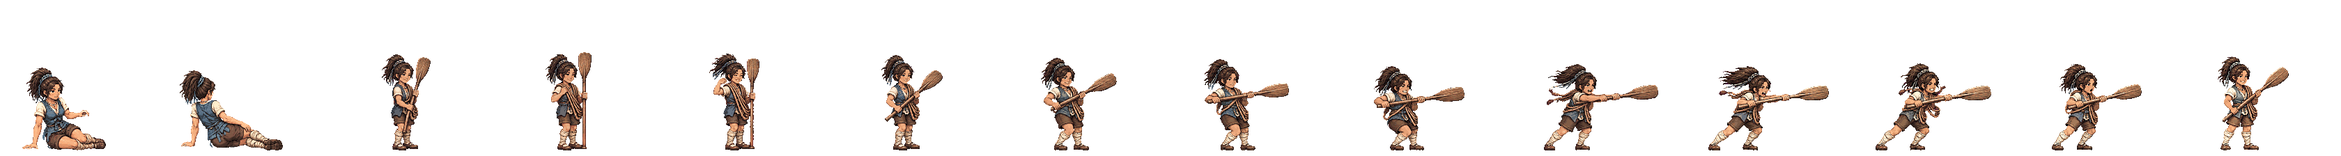
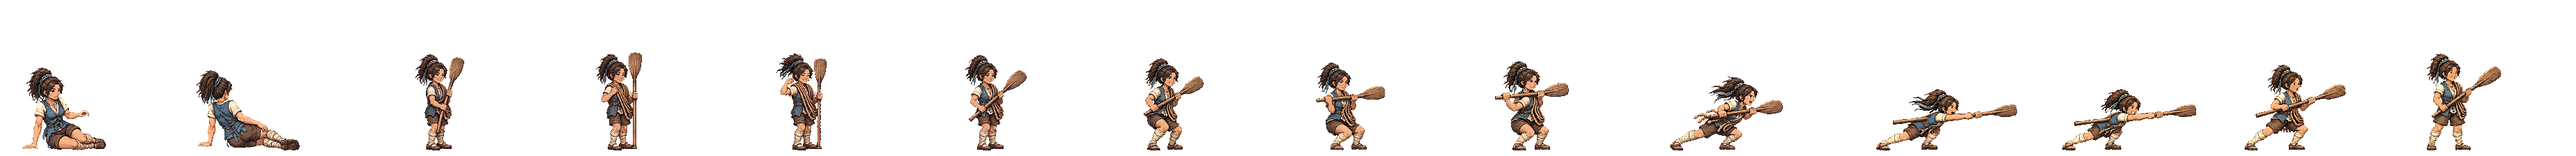
사물 사공 노 찌르기를 새 인형으로 다시 · 걷기는 받은 그림 그대로
T7 · T8 다시를 받음. 첫 b 판은 노가 4할 짧았다 → 두 손을 자루 가운데로 옮겨 쥐게 해 노가 제 길이. b 칸1~3 은 그림의 앞발이 인형보다 앞이라 굽기가 몸 겹침으로 맞췄다(앞발이 약 23px 나갔다 돌아옴 · 공격 끝 칸 윗몸 서기에서 -16 경고). 옛 띠(서기→첫 칸 40px · 접힌 팔)보다 나아 넣는다. 띠 검사 합격.

Claude-Session: https://claude.ai/code/session_01TRiuN7s6aDfSnaHxrkctmU

diff --git a/tools/sprite-kit/anim-harness.py b/tools/sprite-kit/anim-harness.py
@@ -50,7 +50,7 @@ HEROES = {
     'ara': dict(atkk=1.05, strip='gen-ara', atk='slash', atk8=True, act=True, legacy=(('a', 1), ('a', 3), ('b', 2), ('b', 4))),   # 가야 검사 아라(한 손 칼) · 좁은 칸: 머리 위로 곧게 세운 a2 는 위가, 끝까지 벤 b1 은 앞이 넘친다
     'dtiger': dict(strip='gen-base-w-22-dongye-tiger-huntress', atk='thrust', src='thrust2', actw=264, atk8=True, act=True, legacy=(('a', 2), ('a', 3), ('b', 3), ('b', 4))),   # 동예 범 사냥꾼(창)
     'noeul': dict(strip='gen-noeul', atk='bow', atk8=False),   # 사로 노을(활)
-    'sagong': dict(strip='gen-sagong', atk='thrust', atk8=True, act=True, legacy=(('a', 2), ('a', 3), ('b', 3), ('b', 4))),   # 사물 사공(두 손 노 · 찌르기)
+    'sagong': dict(strip='gen-sagong', atk='thrust', src='thrust2', actw=264, atk8=True, act=True, legacy=(('a', 2), ('a', 3), ('b', 3), ('b', 4))),   # 사물 사공(두 손 노 · 찌르기)
     'songbi': dict(strip='gen-songbi', atk='bow', atk8=False),   # 비류나 송비(활)
     'sinneoul': dict(strip='gen-sinneoul', atk='thrust', atk8=True, act=True, legacy=(('a', 2), ('a', 3), ('b', 3), ('b', 4))),   # 신지 너울(두 손 갈고리 장대 · 가슴 XL)
     'heo': dict(strip='gen-heo', atk='thrust', src='thrust2', actw=264, atk8=True, act=True, legacy=(('a', 2), ('a', 3), ('b', 3), ('b', 4))),   # 가락 허황옥(금빛 창 · 가슴 L)
